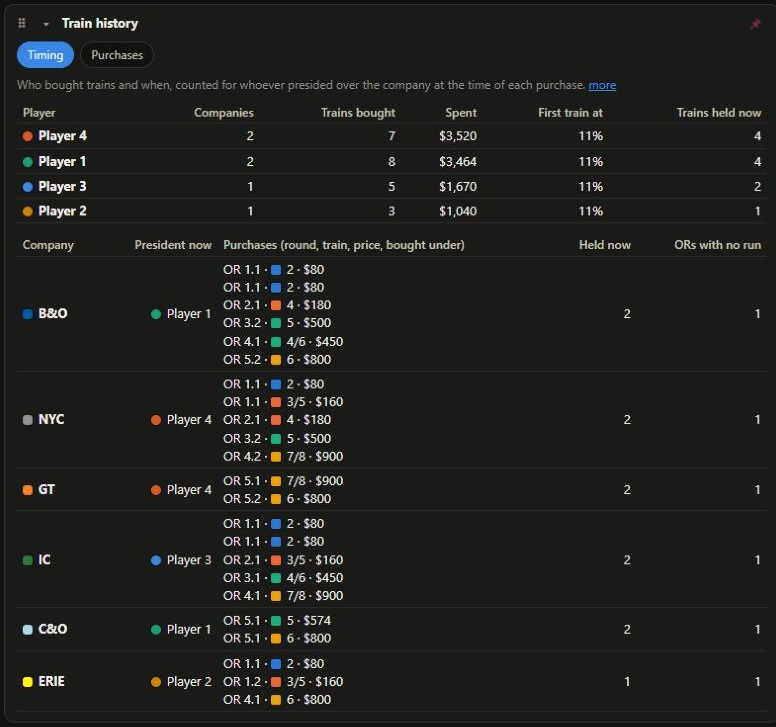
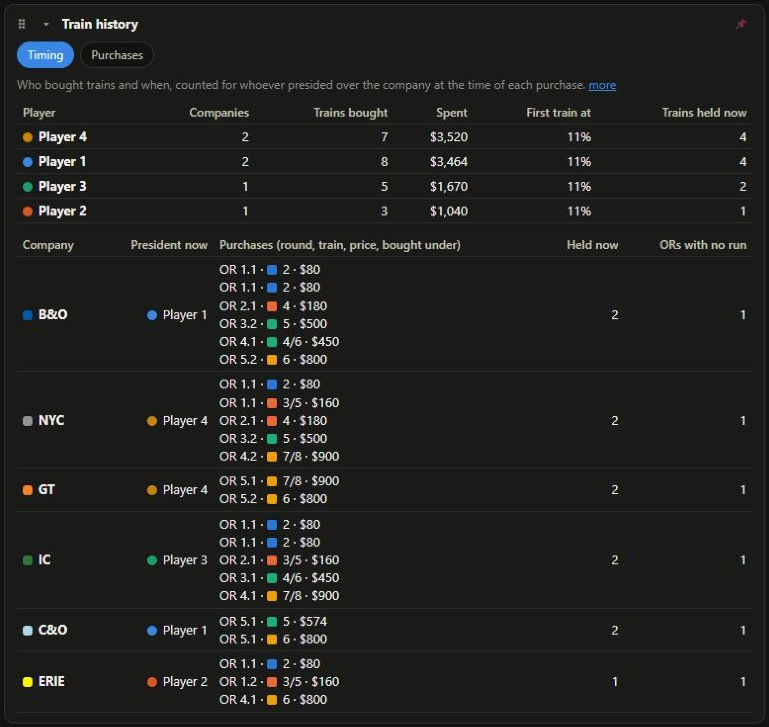
Docs: refresh README screenshots for 0.26.0
New player colours, fixed tables and chart labels, the new menu, and new
pictures of the share card, keyboard shortcuts and Follow the round.
Taken with the built-in privacy mode.

Claude-Session: https://claude.ai/code/session_01C3pZM6jQLUtwk8SEC5kEQA

diff --git a/README.md b/README.md
@@ -155,7 +155,7 @@ Not affiliated with 18xx.games; thanks to its authors for an open, well-structur
 
 ## Views
 
-Every card and tab in the window, one picture each. They were taken from two finished games (1846 and 1862) with version 0.25.1 in dark mode; players are shown as Player 1–4. The live-game cards come from the 1846 game in History mode (after OR 5.1), with *I am* set to Player 1. Click a section to open it.
+Every card and tab in the window, one picture each. They were taken from two finished games (1846 and 1862) in dark mode, with version 0.26.0 in privacy mode (players shown as Player 1–4); a few cards that did not change are from 0.25.1. The live-game cards come from the 1846 game in History mode (after OR 5.1), with *I am* set to Player 1. Click a section to open it.
 
 <details>
 <summary><b>Top bar, menu and History</b></summary>
@@ -168,9 +168,13 @@ Every card and tab in the window, one picture each. They were taken from two fin
 
 ![History slider](docs/views/1846-history-header.jpg)
 
-**Menu (⋯).** *I am*, sound, Half / Third size, dark/light, reset layout, text size, the 🔗 layout link, *Auto size*, *Layout code…*, open another game by number, *Compare games…*, and the version line.
+**Menu (⋯).** *I am*, sound, Half / Third size, dark/light, Privacy, Colour-blind, High contrast, Follow the round, Keys, reset layout, text size, the 🔗 layout link, *Auto size*, *Layout code…*, open another game by number, *Compare games…*, and the version line.
 
 ![The ⋯ menu](docs/views/1846-menu.jpg)
+
+**Keyboard shortcuts.** Press **?** (or ⌨ Keys in the menu) for the list.
+
+![Keyboard shortcuts](docs/views/1846-keys.jpg)
 
 **Compare: Another game.** Type up to three other games of the same title to see them side by side.
 
@@ -184,6 +188,10 @@ Every card and tab in the window, one picture each. They were taken from two fin
 
 <details>
 <summary><b>Now (live games)</b></summary>
+
+**Follow the round.** In a live game the cards that matter in this kind of round move up into Now, marked *this round*. Here, in a stock round: the stock round helper, the market and valuation. Switch it off in the ⋯ menu.
+
+![Follow the round in a stock round](docs/views/1846-live-follow.jpg)
 
 **Now.** Who is to act and for which company, the round and how many ORs are left in the set, priority deal, the order of the round, your own tile (value, rank, gap, cash, certificate room) and a game-end estimate.
 
@@ -221,6 +229,10 @@ Every card and tab in the window, one picture each. They were taken from two fin
 **Standings.** Final ranking by player value, gap to the leader, cash and certificates. *copy as text* and *copy as image* share it in chat. In a live game this card is called Standings.
 
 ![Standings](docs/views/1846-result-standings.jpg)
+
+**Share card.** In a finished game, *copy share card* copies one picture with the winner, the standings, the Player value chart and the badges.
+
+![Share card](docs/views/1846-share-card.jpg)
 
 **Badges.** Just-for-fun awards such as biggest comeback, most time in the lead, dividend king and best single run, each with a runner-up.
 

diff --git a/CHANGELOG.md b/CHANGELOG.md
@@ -2,6 +2,11 @@
 
 All notable changes to this project are listed here. The format follows [Keep a Changelog](https://keepachangelog.com), and versions follow [Semantic Versioning](https://semver.org).
 
+## [Unreleased]
+
+### Changed
+- **README screenshots refreshed** for 0.26.0: the new player colours, the fixed tables and chart labels, the new menu, plus new pictures of the share card, the keyboard shortcuts and Follow the round.
+
 ## [0.26.0] - 2026-11-15
 
 ### Added
